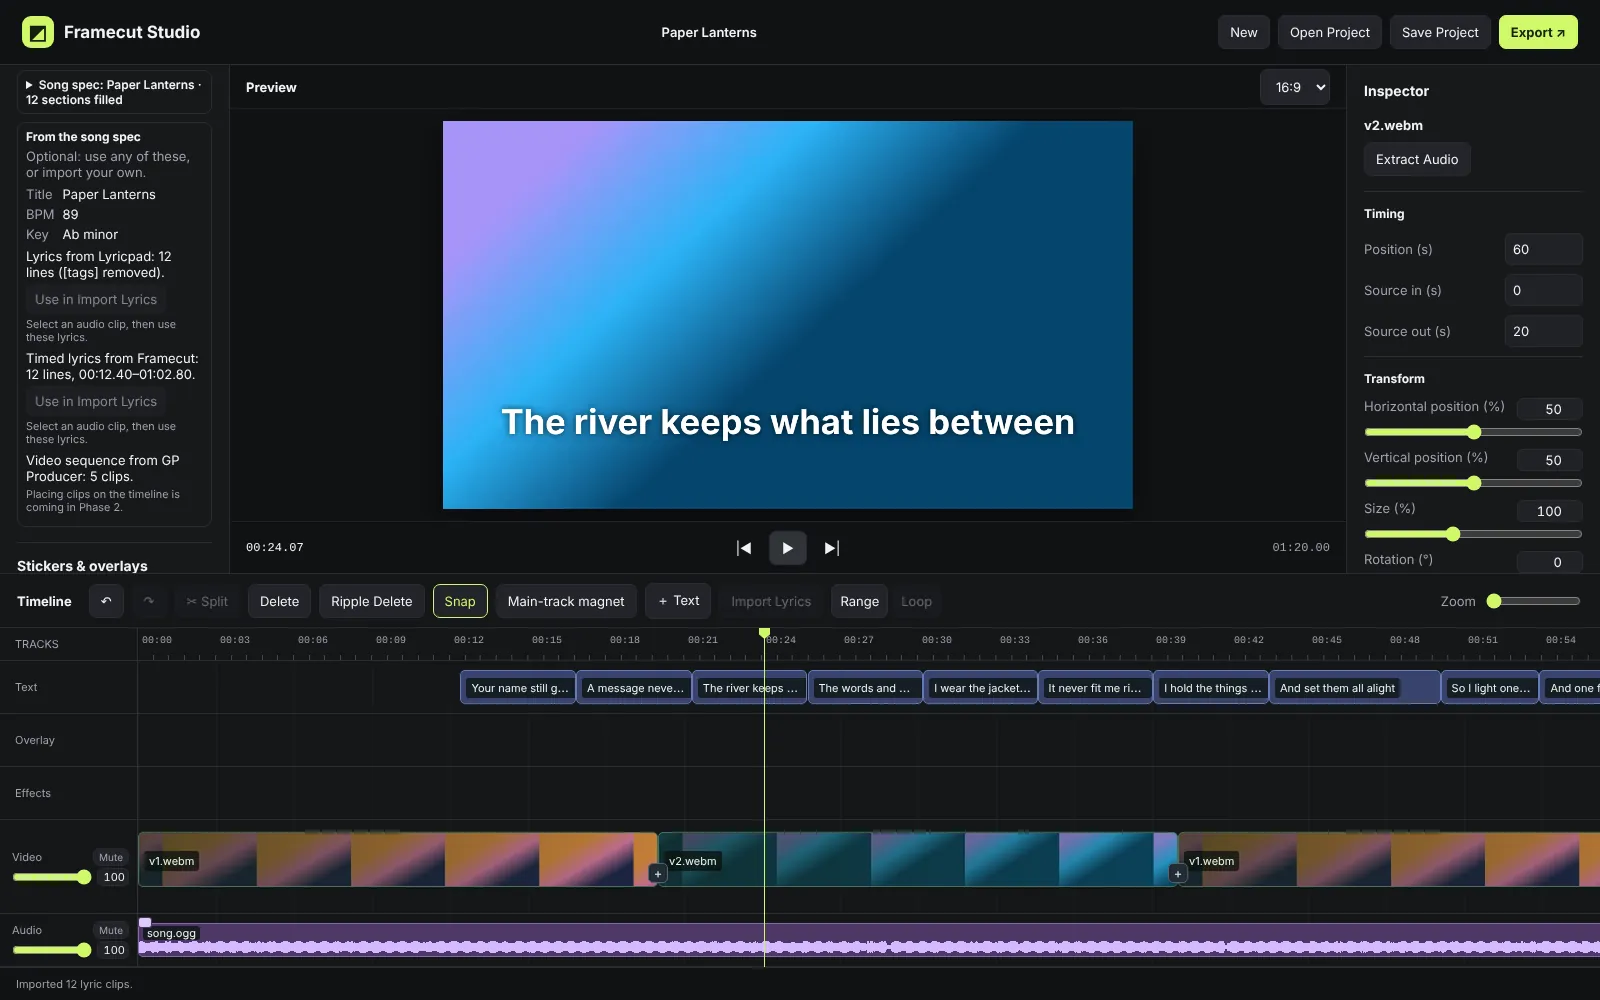
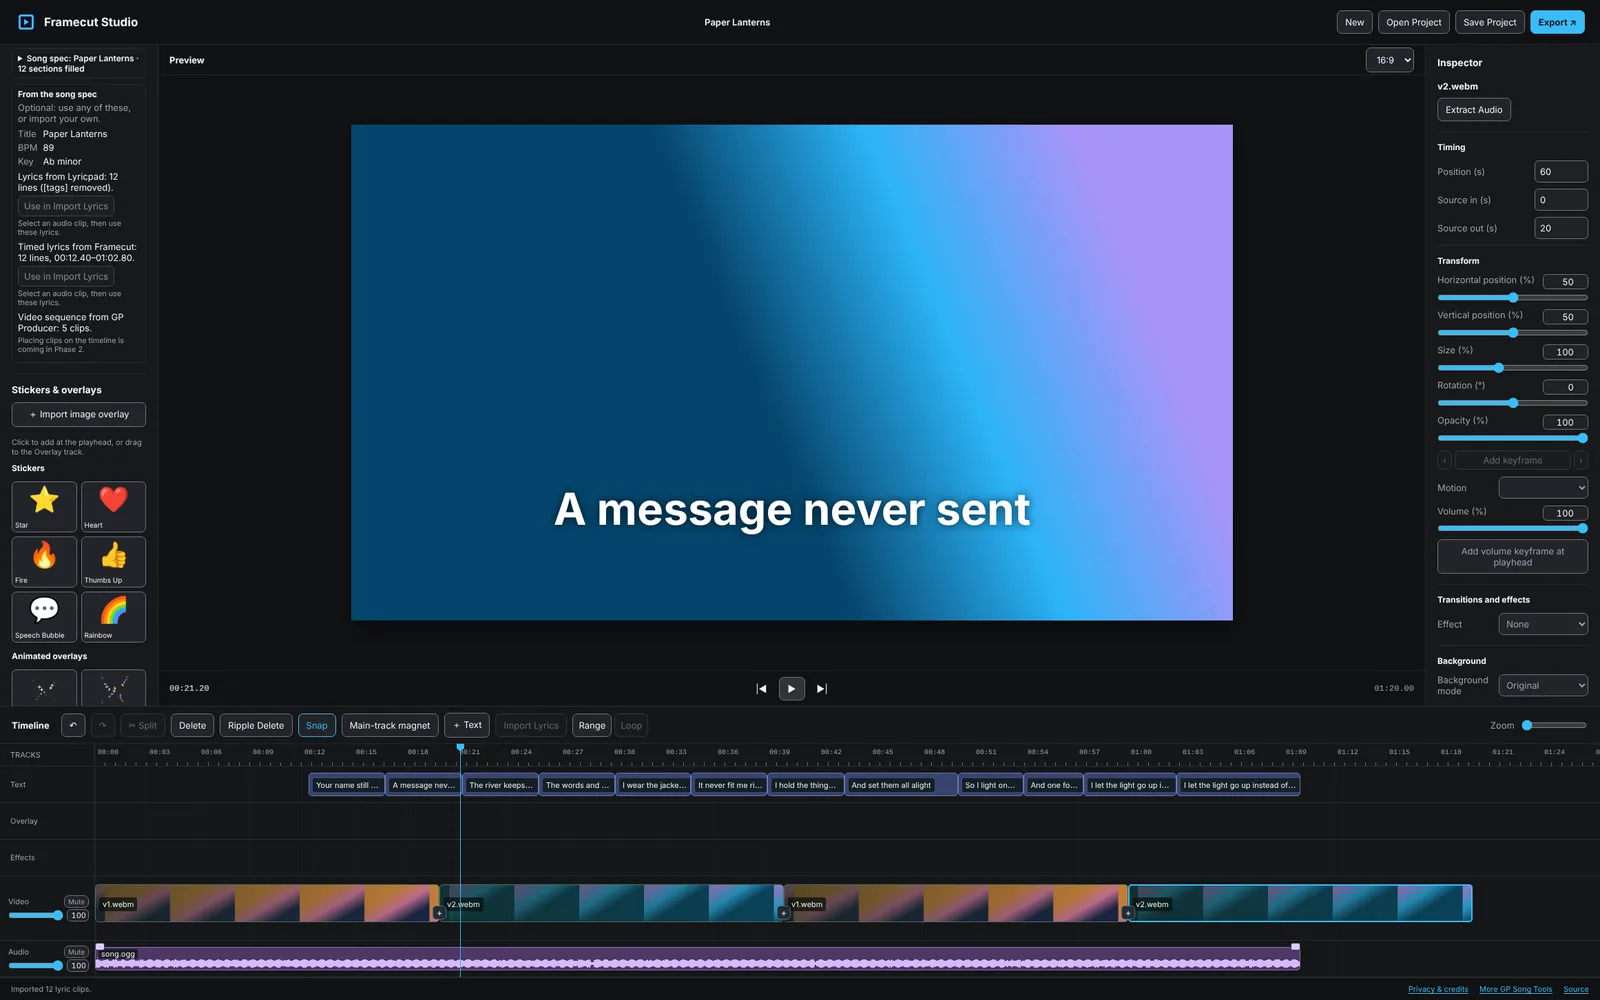
Retake the GP Producer and Framecut screenshots
Claude-Session: https://claude.ai/code/session_01BKC4RwLtFoHgWv2EpKwgt3

diff --git a/about.html b/about.html
@@ -317,7 +317,7 @@
         <a class="open" href="https://gp-songtools.github.io/gp-producer/" target="_blank" rel="noopener">Open GP Producer →</a>
       </div>
       <figure>
-        <img class="shot" src="img/gpproducer.webp" width="1600" height="1000" loading="lazy" alt="GP Producer's Blueprint tab for the demo song Paper Lanterns, with the song spec panel open and listing Timed lyrics from Framecut and a Video sequence, above a validated five-scene plan and the director's treatment">
+        <img class="shot" src="img/gpproducer.webp" width="1600" height="1000" loading="lazy" alt="GP Producer's Blueprint tab for the demo song Paper Lanterns, with the song spec panel closed above a green check that the five scenes tile the runtime, the director's treatment and the first visual reference anchors">
       </figure>
     </article>
 
@@ -337,7 +337,7 @@
         <a class="open" href="https://gp-songtools.github.io/framecut/" target="_blank" rel="noopener">Open Framecut →</a>
       </div>
       <figure>
-        <img class="shot" src="img/framecut.webp" width="1600" height="1000" loading="lazy" alt="Framecut editing the demo song Paper Lanterns: a gradient video preview with the lyric 'The river keeps what lies between', the From the song spec box, and a timeline with lyric text clips above two video clips and an audio waveform">
+        <img class="shot" src="img/framecut.webp" width="1600" height="1000" loading="lazy" alt="Framecut editing the demo song Paper Lanterns: a gradient video preview with the lyric 'A message never sent', the From the song spec box listing timed lyrics and a video sequence, and a timeline with lyric text clips above four video clips and an audio waveform">
       </figure>
     </article>
   </section>
